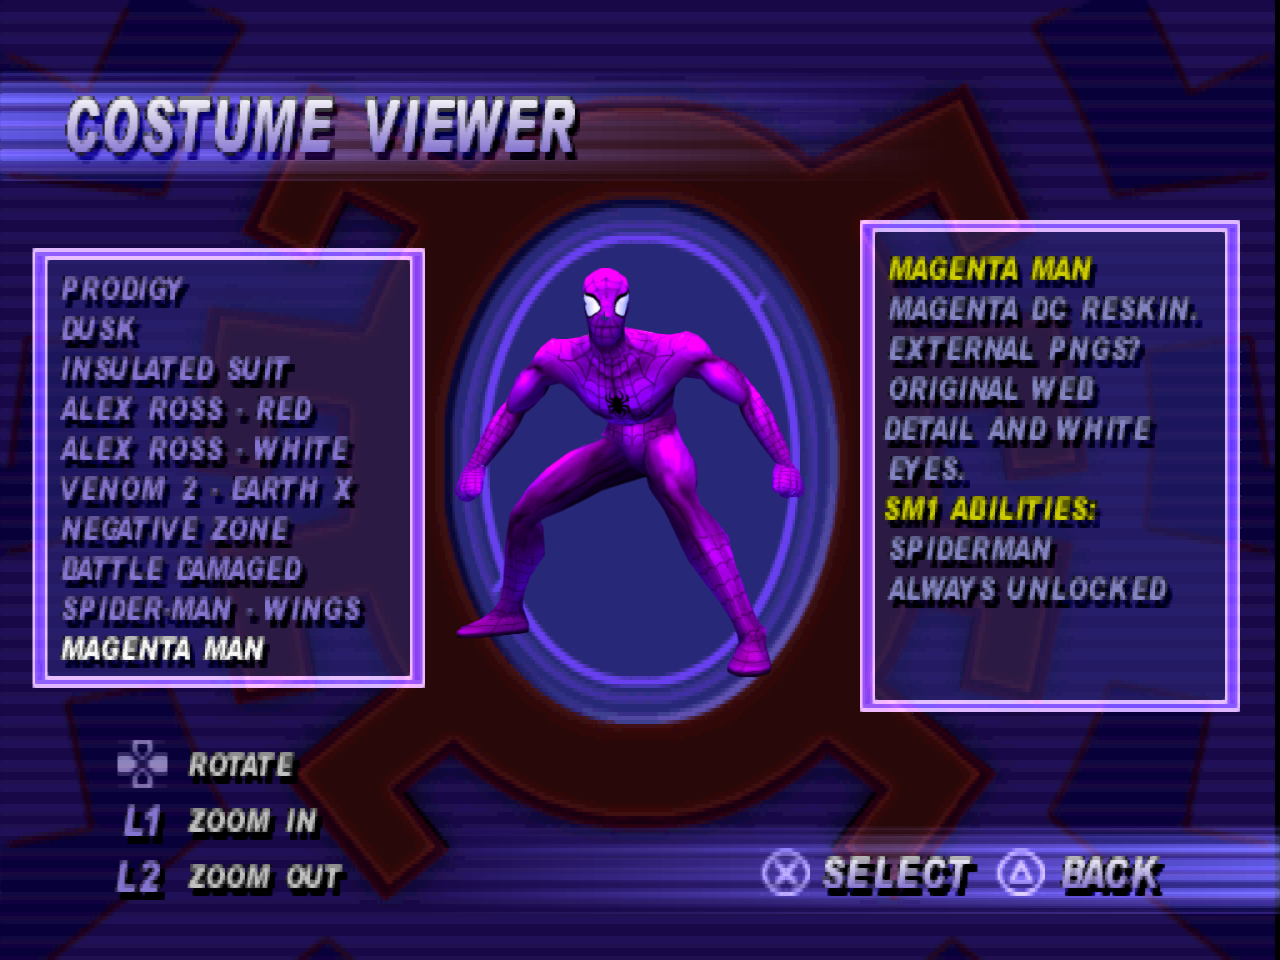
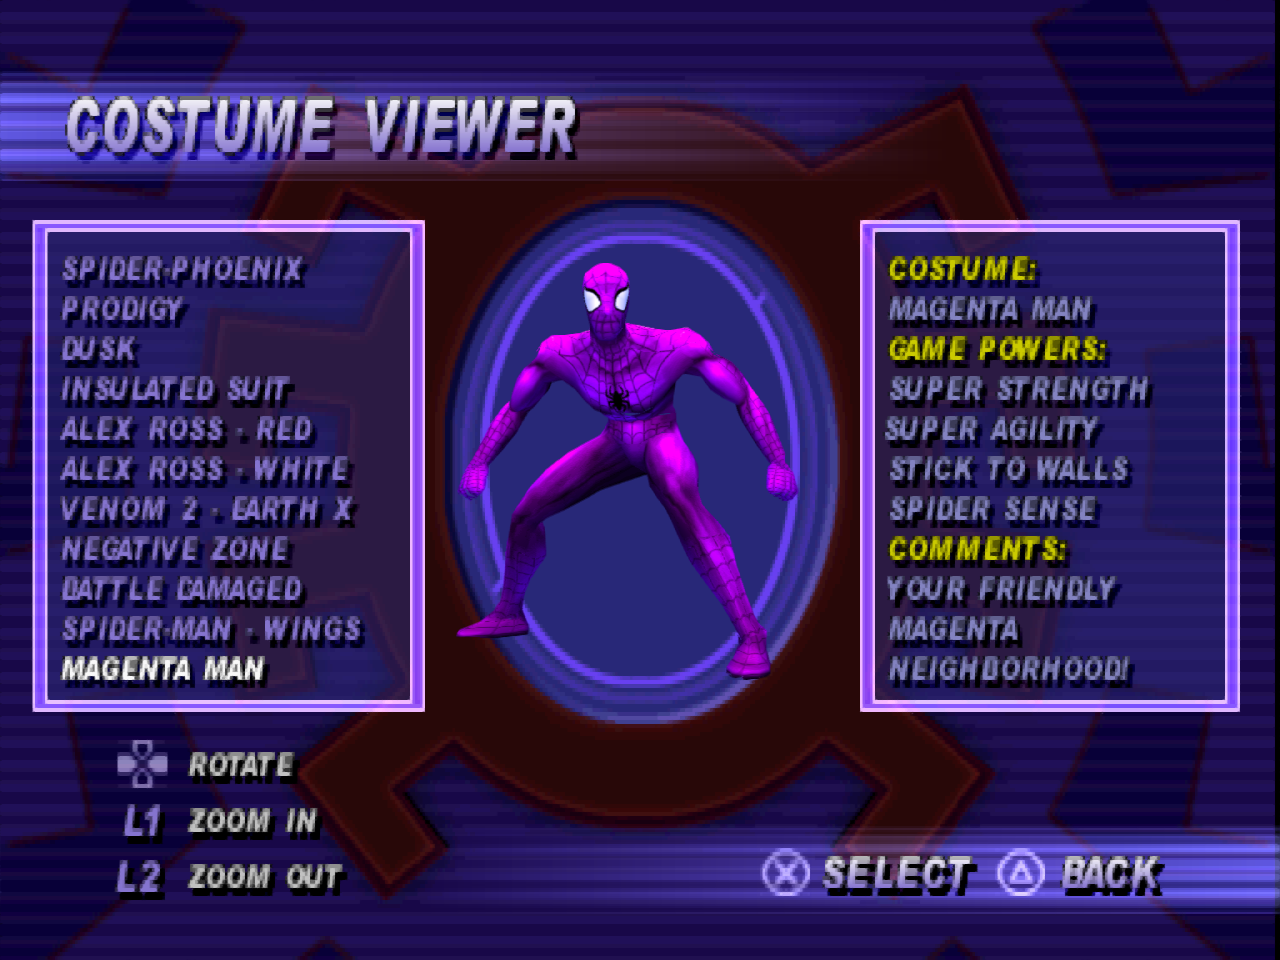
Match reskin descriptions to stock style and simplify author instructions

diff --git a/tools/RecompOne/RecompOne.Runtime/Assets/Suits/SuitManifest.cs b/tools/RecompOne/RecompOne.Runtime/Assets/Suits/SuitManifest.cs
@@ -4,13 +4,39 @@ using System.Text.Json;
 namespace RecompOne.Runtime.Assets.Suits;
 
 /// <summary>Data-only reskins. No guest addresses, model binaries, scripts or assemblies.</summary>
-public sealed record SuitManifest(string Id, string Name, string Description, int AbilityProfile,
+public sealed record SuitManifest(string Id, string Name, string Comments, int AbilityProfile,
     IReadOnlyDictionary<uint, string> Textures)
 {
     public static readonly string[] Profiles =
         ["spiderman", "2099", "symbiote", "captain-universe", "unlimited",
          "bagman", "scarlet", "ben-reilly", "quick-change", "peter-parker"];
     public const long PixelBudget = 64L * 1024 * 1024;
+    // Verbatim GAME POWERS lines from SM1 charbio.dat, in Profiles order.
+    public static readonly string[][] PowerText =
+    [
+        ["SUPER STRENGTH", "SUPER AGILITY", "STICK TO WALLS", "SPIDER SENSE"],
+        ["ENHANCED STRENGTH"], ["UNLIMITED WEBBING"],
+        ["INVULNERABLE", "ENHANCED STRENGTH", "UNLIMITED WEBBING"],
+        ["STEALTH MODE"], ["NO SPIDEY BELT"], ["NONE"], ["NONE"],
+        ["NO SPIDEY BELT"], ["NO SPIDEY BELT"]
+    ];
+
+    public static string[] WrapComments(string value)
+    {
+        var lines = new List<string>();
+        string line = "";
+        foreach (string word in value.ToUpperInvariant().Split(' ', StringSplitOptions.RemoveEmptyEntries))
+        {
+            string remaining = word;
+            if (line.Length > 0 && line.Length + remaining.Length + 1 > 18)
+            { lines.Add(line); line = ""; }
+            while (remaining.Length > 18)
+            { lines.Add(remaining[..18]); remaining = remaining[18..]; }
+            line = line.Length == 0 ? remaining : line + " " + remaining;
+        }
+        if (line.Length > 0) lines.Add(line);
+        return lines.ToArray();
+    }
     // Public paintable materials of the approved wingless DC Spider-Man donor.
     // The invisible-wing cutout is deliberately not a paintable body material.
     static readonly HashSet<uint> DonorMaterials =
@@ -72,7 +98,7 @@ public sealed record SuitManifest(string Id, string Name, string Description, in
         using var doc = JsonDocument.Parse(File.ReadAllBytes(path), new JsonDocumentOptions
             { CommentHandling = JsonCommentHandling.Skip, MaxDepth = 8 });
         var o = doc.RootElement;
-        Fields(o, "version", "id", "name", "description", "donor", "abilities", "textures");
+        Fields(o, "version", "id", "name", "comments", "donor", "abilities", "textures");
         if (o.GetProperty("version").GetInt32() != 1) throw new InvalidDataException("unsupported suit version");
         string id = Label(o, "id", 48);
         if (id.Any(c => !(c is >= 'a' and <= 'z' or >= '0' and <= '9' or '-')))
@@ -83,6 +109,12 @@ public sealed record SuitManifest(string Id, string Name, string Description, in
         Fields(abilities, "profile");
         int profile = Array.IndexOf(Profiles, abilities.GetProperty("profile").GetString());
         if (profile < 0) throw new InvalidDataException("unknown SM1 ability profile");
+        string comments = o.GetProperty("comments").GetString() ?? "";
+        if (comments.Length > 72 || comments.Any(c => c < 32 || c > 126))
+            throw new InvalidDataException("comments must be at most 72 printable ASCII characters");
+        int availableLines = 11 - 4 - PowerText[profile].Length;
+        if (WrapComments(comments).Length > availableLines)
+            throw new InvalidDataException($"comments do not fit beneath this donor's powers; shorten to {availableLines} lines of 18 characters");
         var textures = new Dictionary<uint, string>();
         var tex = o.GetProperty("textures");
         if (tex.ValueKind != JsonValueKind.Object) throw new InvalidDataException("textures must be an object");
@@ -106,7 +138,7 @@ public sealed record SuitManifest(string Id, string Name, string Description, in
             if (!textures.TryAdd(material, file)) throw new InvalidDataException("duplicate material ID");
         }
         if (textures.Count == 0) throw new InvalidDataException("at least one external texture is required");
-        return new(id, Label(o, "name", 18), Label(o, "description", 72), profile, textures);
+        return new(id, Label(o, "name", 18), comments, profile, textures);
     }
 
     public Dictionary<uint, ReplacementTexture> Decode()

diff --git a/dreamcast/tools/build_magenta_man_sample.py b/dreamcast/tools/build_magenta_man_sample.py
@@ -6,8 +6,8 @@ deliberately enlarged to 2048x2048 to exercise host-side HD uploads, not to clai
 new artistic detail. Other textures retain the original Dreamcast dimensions.
 """
 import argparse
-import hashlib
 import json
+import shutil
 from pathlib import Path
 from PIL import Image
 from pack_sm2_costume_to_dc import container_layout
@@ -27,7 +27,6 @@ def main():
     output = args.output.resolve()
     (output / 'textures').mkdir(parents=True, exist_ok=True)
     textures = {}
-    evidence = []
     for entry in sorted(entries, key=lambda e: e['textureIndex']):
         index = entry['textureIndex']
         source = Path(entry['source'])
@@ -40,33 +39,26 @@ def main():
             chroma = maximum - minimum
             recolored.append((maximum, minimum, maximum, a) if chroma > 12 else (r, g, b, a))
         image.putdata(recolored)
-        original_size = image.size
         if index == 0:
             image = image.resize((2048, 2048), Image.Resampling.NEAREST)
         material = f'{hashes[index]:08X}'
         relative = f'textures/{material}.png'
         image.save(output / relative)
         textures[material] = relative
-        evidence.append({'material': material, 'source': str(source.relative_to(ROOT)),
-                         'sourceSha256': hashlib.sha256(source.read_bytes()).hexdigest(),
-                         'sourceSize': original_size, 'outputSize': image.size,
-                         'sha256': hashlib.sha256((output / relative).read_bytes()).hexdigest()})
     manifest = dict(version=1, id='magenta-man', name='Magenta Man',
-                    description='Magenta DC reskin. External PNGs, original web detail and white eyes.',
+                    comments='Your friendly magenta neighborhood!',
                     donor='dc-spiderman', abilities={'profile': 'spiderman'}, textures=textures)
     content = json.dumps(manifest, indent=2)
     content = content.replace('  "abilities": {',
-        '  // Assign one SM1 ability profile (appearance stays DC Spider-Man):\n'
+        '  // Choose whose powers your costume uses:\n'
         '  // spiderman, 2099, symbiote, captain-universe, unlimited, bagman,\n'
-        '  // scarlet, ben-reilly, quick-change, peter-parker. See README for effects.\n'
-        '  // These are complete retail profiles, not SM2 abilities or arbitrary code.\n'
+        '  // scarlet, ben-reilly, quick-change, peter-parker.\n'
+        '  // See instructions.txt for what each choice does.\n'
         '  "abilities": {')
     (output / 'suit.json').write_text(content + '\n', encoding='utf-8')
-    (output / 'provenance.json').write_text(json.dumps({
-        'donorSha256': hashlib.sha256(donor).hexdigest(),
-        'donorUnmodified': True, 'textures': evidence,
-        'note': '2048 texture is a nearest-neighbor HD-path test, not newly authored detail.'
-    }, indent=2) + '\n', encoding='utf-8')
+    instructions = ROOT / 'mods/samples/magenta-man/instructions.txt'
+    if output != instructions.parent:
+        shutil.copy2(instructions, output / 'instructions.txt')
     print(f'{output}: {len(textures)} external PNGs; donor unchanged; JSON profile spiderman')
 
 

diff --git a/tools/RecompOne/tests/SuitModRegression/Program.cs b/tools/RecompOne/tests/SuitModRegression/Program.cs
@@ -42,6 +42,13 @@ Reject(d => d["donor"] = "../../unsafe.psx", "arbitrary model files rejected");
 Reject(d => d["address"] = "0x80010000", "raw address fields rejected");
 Reject(d => d["abilities"]!["profile"] = "sm2-electric-web", "unknown ability profile rejected");
 Reject(d => d["name"] = "BAD\u0002TEXT", "selector control bytes rejected");
+Reject(d => d["comments"] = "BAD\u0002TEXT", "comment control bytes rejected");
+Reject(d => d["comments"] = new string('W', 72), "comments that would overflow the default donor pane rejected");
+var emptyComments = JsonNode.Parse(clean)!;
+emptyComments["comments"] = "";
+File.WriteAllText(manifest, emptyComments.ToJsonString());
+Check(SuitManifest.Read(manifest).Comments == "", "author may leave comments empty");
+File.WriteAllText(manifest, clean);
 Reject(d => d["textures"]!["FBC5A5A0"] = "../outside.png", "path traversal rejected");
 Reject(d => d["textures"]!["FBC5A5A0"] = "C:/outside.png", "absolute path rejected");
 Reject(d => d["textures"]!["FBC5A5A0"] = "small.png:stream", "alternate file stream rejected");
@@ -92,6 +99,31 @@ Costume.PrepareViewer(new CpuContext(), memory);
 Check(memory.ReadU32(Costume.ViewerTable + 20 * 12) >= Costume.ViewerTable + 0x800, "mod label stored in port-owned selector arena");
 // Use retail data and functions as the UI oracle, not a hand-designed layout.
 byte[] bio = File.ReadAllBytes(Path.Combine(root, "spiderman/extracted/wad/charbio.dat"));
+string[] costumeSections = System.Text.Encoding.ASCII.GetString(bio).Split((char)1)
+    .Where(s => s.Contains("Game Powers:\0")).ToArray();
+Check(costumeSections.Length == 10, "ten original ability-donor descriptions found");
+for (int profile = 0; profile < 10; profile++)
+{
+    string[] originalPowers = costumeSections[profile].Split("Game Powers:\0\u0002DDd")[1]
+        .Split("\u0002ii\0Comments:")[0].TrimEnd('\0').ToUpperInvariant().Split('\0');
+    Check(SuitManifest.PowerText[profile].SequenceEqual(originalPowers), "donor power wording matches retail: " + SuitManifest.Profiles[profile]);
+    SuitMods.Catalogue[0] = SuitMods.Catalogue[0] with { AbilityProfile = profile, Comments = "Made by Jane. Enjoy!" };
+    Costume.PrepareViewer(new CpuContext(), memory);
+    uint p = memory.ReadU32(Costume.ViewerTable + 20 * 12 + 4);
+    var lines = new List<string>();
+    while (memory.ReadU8(p) != 255)
+    {
+        if (memory.ReadU8(p) == 2) { p += 4; continue; }
+        string line = "";
+        while (memory.ReadU8(p) != 0) line += (char)memory.ReadU8(p++);
+        p++;
+        lines.Add(line);
+    }
+    string[] expected = ["COSTUME:", "MAGENTA MAN", "GAME POWERS:", ..originalPowers,
+        "COMMENTS:", ..SuitManifest.WrapComments("Made by Jane. Enjoy!")];
+    Check(lines.SequenceEqual(expected) && lines.Count <= 11,
+        "stock-style sections, automatic donor powers and author's comments: " + SuitManifest.Profiles[profile]);
+}
 Check(bio.AsSpan().IndexOf(new byte[] { 2, 105, 105, 0 }) >= 0 &&
       bio.AsSpan().IndexOf(new byte[] { 2, 68, 68, 100 }) >= 0, "stock description palette read from charbio.dat");
 for (uint suit = 10; suit < Costume.ViewerCount; suit++)

diff --git a/spiderman/patches/Costume.cs b/spiderman/patches/Costume.cs
@@ -321,25 +321,19 @@ public static class Costume
     {
         var mod = SuitMods.At(index);
         cursor = WriteViewerColor(memory, cursor, heading: true);
+        cursor = WriteViewerLine(memory, cursor, "COSTUME:");
+        cursor = WriteViewerColor(memory, cursor, heading: false);
         cursor = WriteViewerLine(memory, cursor, mod.Name.ToUpperInvariant());
-        cursor = WriteViewerColor(memory, cursor, heading: false);
-        string line = "";
-        foreach (string word in mod.Description.ToUpperInvariant().Split(' ', StringSplitOptions.RemoveEmptyEntries))
-        {
-            // Long single words are wrapped too, never allowed to run through the selector.
-            string remaining = word;
-            if (line.Length > 0 && line.Length + remaining.Length + 1 > 18)
-            { cursor = WriteViewerLine(memory, cursor, line); line = ""; }
-            while (remaining.Length > 18)
-            { cursor = WriteViewerLine(memory, cursor, remaining[..18]); remaining = remaining[18..]; }
-            line = line.Length == 0 ? remaining : line + " " + remaining;
-        }
-        if (line.Length > 0) cursor = WriteViewerLine(memory, cursor, line);
         cursor = WriteViewerColor(memory, cursor, heading: true);
-        cursor = WriteViewerLine(memory, cursor, "SM1 ABILITIES:");
+        cursor = WriteViewerLine(memory, cursor, "GAME POWERS:");
         cursor = WriteViewerColor(memory, cursor, heading: false);
-        cursor = WriteViewerLine(memory, cursor, Names[mod.AbilityProfile].ToUpperInvariant());
-        cursor = WriteViewerLine(memory, cursor, "ALWAYS UNLOCKED");
+        foreach (string power in RecompOne.Runtime.Assets.Suits.SuitManifest.PowerText[mod.AbilityProfile])
+            cursor = WriteViewerLine(memory, cursor, power);
+        cursor = WriteViewerColor(memory, cursor, heading: true);
+        cursor = WriteViewerLine(memory, cursor, "COMMENTS:");
+        cursor = WriteViewerColor(memory, cursor, heading: false);
+        foreach (string line in RecompOne.Runtime.Assets.Suits.SuitManifest.WrapComments(mod.Comments))
+            cursor = WriteViewerLine(memory, cursor, line);
         memory.WriteU8(cursor++, 255);
         return cursor;
     }

diff --git a/docs/magenta-man-mod-development.md b/docs/magenta-man-mod-development.md
@@ -1,4 +1,4 @@
-# Magenta Man — SM1 data-only suit example
+# Magenta Man — developer notes
 
 Magenta-colored fabric, original Dreamcast geometry/UVs, black web detail and white
 eyes. This is a reskin, not a debug color or missing-texture placeholder.
@@ -22,7 +22,8 @@ This example is currently for SM1, not SM2.
 ## Edit the JSON and PNGs
 
 `suit.json` supports `//` comments. `name` (up to 18 printable ASCII characters)
-and `description` (up to 72) appear in the selector. `id` must be unique and stable;
+and `comments` (up to 72, further bounded by the available wrapped lines) appear
+in the selector. GAME POWERS uses the chosen profile's retail text. `id` must be unique and stable;
 selection is remembered by that ID outside the retail save. Removing a selected
 mod falls back to default Spider-Man instead of selecting a different catalogue slot.
 
@@ -54,8 +55,8 @@ The invisible wing cutout is not paintable in this wingless donor.
 neighbor enlargement of the tinted source, not newly painted HD detail. The other
 seven images use original Dreamcast dimensions. The sample's decoded pixels occupy
 17,776,640 bytes (about 17 MiB) in host RAM, plus GPU texture storage. PNG file size
-is not the same as decoded memory cost. `provenance.json` records pixel-source/file
-hashes and dimensions; the generator does not modify the donor PSX.
+is not the same as decoded memory cost. The generator does not modify the donor PSX.
+No provenance file is included in the user-facing mod folder.
 
 ## Boundaries and failure behavior
 

diff --git a/docs/costume-selector-stock-layout.md b/docs/costume-selector-stock-layout.md
@@ -38,3 +38,10 @@ assertions. Native captures in `proof_render/magenta-man/aligned-text-eleven-row
 (`frame_01817.png`, `frame_02867.png`, `frame_04017.png`) were inspected individually:
 the first text lines align, the eleventh row clears the bottom border, and selecting
 Magenta Man then scrolling back to stock works. The single-process test exited normally.
+
+Mod descriptions now use COSTUME (JSON name), GAME POWERS (the chosen SM1
+ability donor's exact retail wording), and COMMENTS (JSON comments). The original
+palette, font and spacing remain unchanged. The 106-assertion regression checks
+all ten donor texts against charbio.dat and rejects comments that would overflow.
+Both native screenshots in `proof_render/magenta-man/stock-style-description`
+(`frame_01866.png`, `frame_02066.png`) were inspected; all three sections fit.

diff --git a/README.md b/README.md
@@ -17,7 +17,7 @@ libraries, so the result is an ordinary .NET application rather than an emulator
 
 [![Magenta Man in the costume selector](docs/screenshots/magenta-man-costume-selector.png)](docs/screenshots/magenta-man-costume-selector.png)
 
-**Proof of reskin mod capability** — Magenta Man uses the Dreamcast Spider-Man model with external PNG textures, a custom selector name and description, and a JSON-assigned SM1 ability profile.
+**Proof of reskin mod capability** — Magenta Man uses the Dreamcast Spider-Man model with external PNG textures, a custom costume name and comments, and a JSON-assigned SM1 ability profile with the original game-power descriptions.
 
 ---
 
